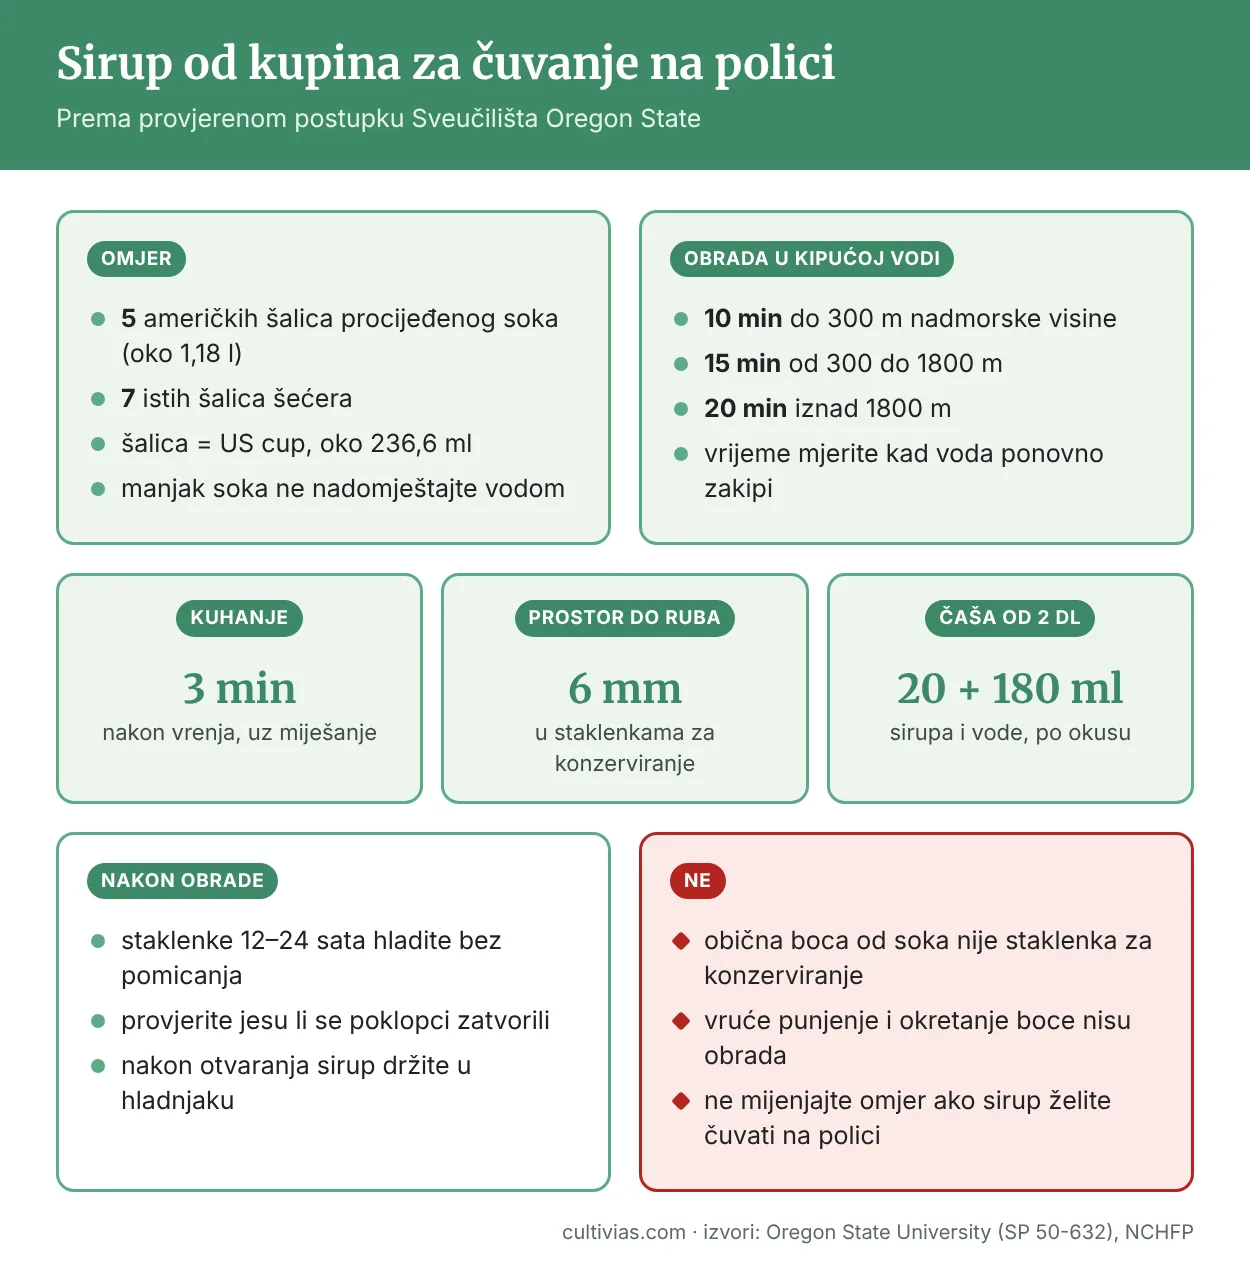
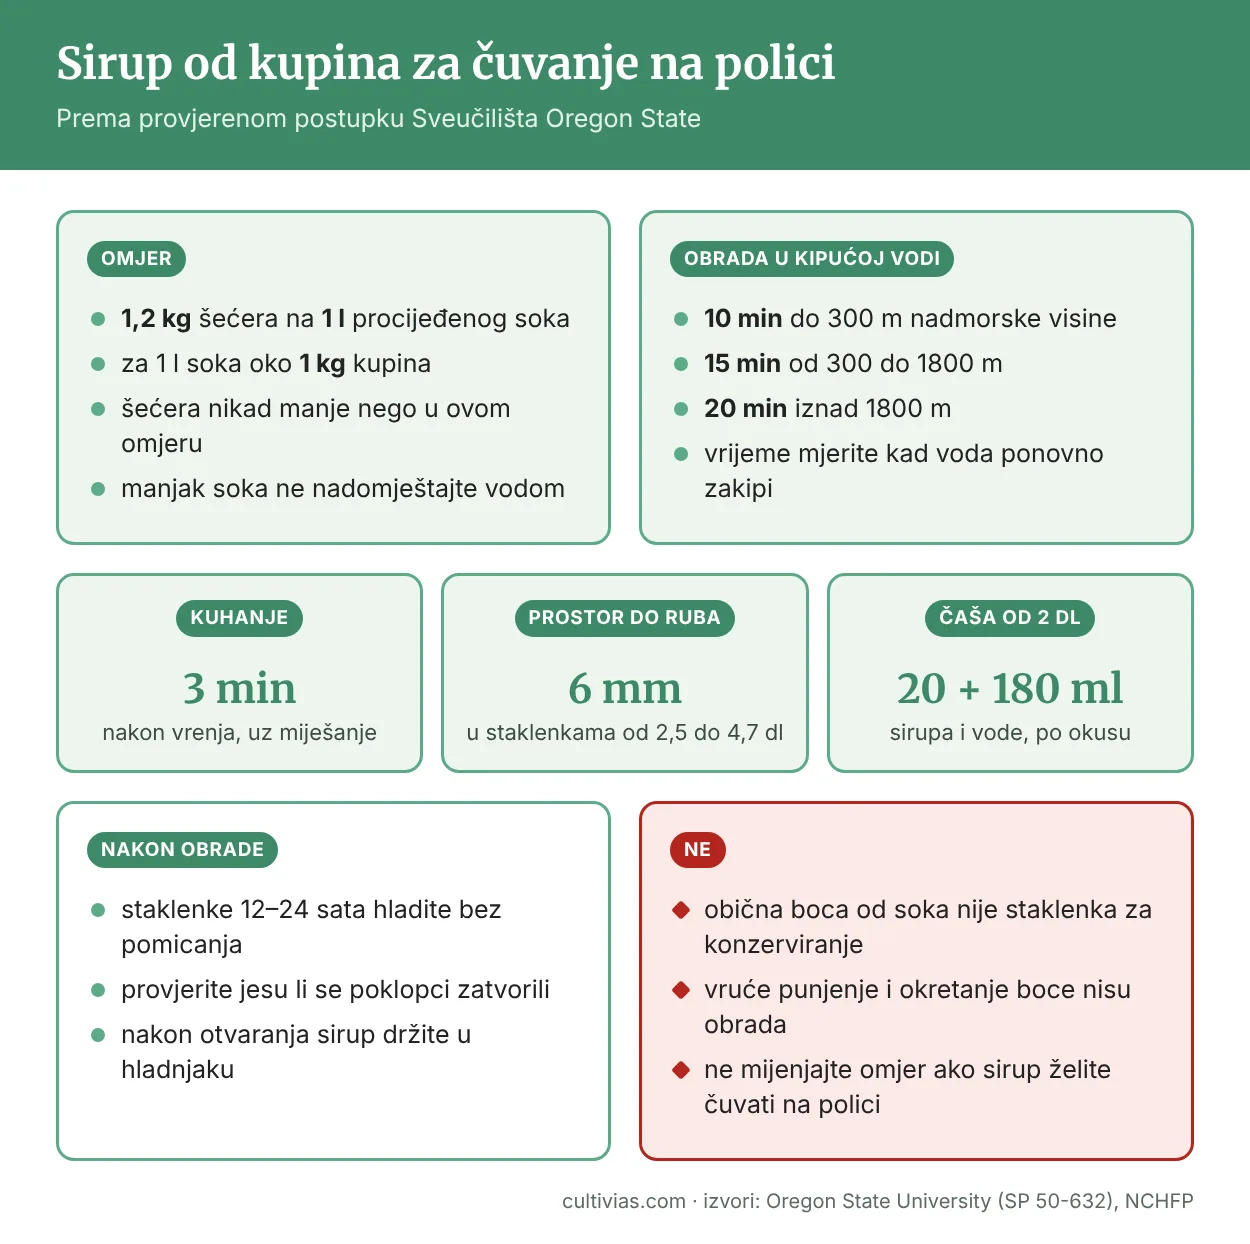
Sirup od kupina: mjere u litrama i kilogramima umjesto američkih šalica
- 1,2 kg šećera na 1 l soka (preračunato iz 5 US šalica soka i 7 šalica
  šećera, šećer zaokružen naviše), oko 1 kg kupina za 1 l soka
- staklenke od 2,5 do 4,7 dl, nadmorska visina zaokružena na 300 i 1800 m
- infografika usklađena

Claude-Session: https://claude.ai/code/session_01EBi2SCu3iP7XhSy3L9WRfJ

Changed region(s): [[0.0, 0.0305, 1.0, 0.9775], [0.0624, 0.9164, 0.468, 0.9469], [0.468, 0.9469, 0.5304, 0.9775]]

diff --git a/src/content/articles/sirup-od-kupina.md b/src/content/articles/sirup-od-kupina.md
@@ -30,23 +30,23 @@ Sirup je zaslađeni koncentrat. Čisti sok od kupina nije isti proizvod, a smiks
 
 ## Koliko soka i šećera pripremiti?
 
-Za jednu turu uzmite **5 američkih mjernih šalica procijeđenog soka i 7 istih šalica šećera**. Omjer i obrada preuzeti su iz [provjerenog postupka pripreme sirupa od bobičastog voća](https://extension.oregonstate.edu/food/preservation/making-berry-syrups-home-sp-50-632).
+**Na 1 litru procijeđenog soka dodajte 1,2 kg šećera.** Omjer je preračunat iz [provjerenog postupka pripreme sirupa od bobičastog voća](https://extension.oregonstate.edu/food/preservation/making-berry-syrups-home-sp-50-632) i zaokružen tako da šećera bude malo više, a ne manje. Šećera nemojte stavljati manje, jer sirup s premalo šećera nije siguran za čuvanje na polici.
 
-Ovdje „šalica” znači **US cup, približno 236,6 ml**, ne šalicu za kavu niti mjernu šalicu od 250 ml. Pet takvih šalica soka iznosi približno **1,18 l**. Šećer mjerite istom izvornom mjerom, poravnato, bez nabijanja. Mililitri šećera nisu isto što i grami; u ovom postupku zadržite izvornu mjeru.
+Za veću ili manju turu zadržite isti omjer: na pola litre soka 600 g šećera, a na 1,5 litre soka 1,8 kg šećera. Sok mjerite mjernom posudom, a šećer vagom.
 
-Za početak cijeđenja pripremite 6–7 takvih šalica kupina. Prinos soka varira, pa nakon cijeđenja izmjerite količinu. Ako ga nema dovoljno za 5 šalica, obradite još voća. U ovom postupku nemojte manjak nadomjestiti vodom.
+Za 1 litru soka pripremite oko 1 kg kupina. Koliko ćete soka dobiti, ovisi o plodovima, pa nakon cijeđenja izmjerite količinu. Ako ga nema dovoljno, obradite još voća, a manjak nemojte nadomjestiti vodom.
 
 ## Koja oprema i posude trebaju?
 
 Pripremite zdrave svježe ili smrznute kupine, lonac, gnječilicu, cjedilo, dvostruku gazu ili vrećicu za cijeđenje, mjericu i kuhaču. Za obradu trebaju dubok lonac s poklopcem i rešetkom na dnu te hvataljka za staklenke.
 
-**Koristite standardne staklenke za kućno konzerviranje s odgovarajućim dvodijelnim poklopcima.** Izvorni postupak predviđa veličine half-pint i pint, približno 237 i 473 ml. Približan volumen nije dopuštenje za bilo koju posudu slične veličine. Obična boca od soka nije zamjena za taj sustav.
+**Koristite standardne staklenke za kućno konzerviranje s odgovarajućim dvodijelnim poklopcima.** Vremena obrade u nastavku vrijede za staklenke od oko 2,5 dl do najviše 4,7 dl, pa veće staklenke ne koristite. Obična boca od soka nije zamjena za taj sustav.
 
 ## Kako pripremiti sok i skuhati sirup?
 
 1. **Operite i pregledajte kupine.** Uklonite peteljke i oštećene plodove. Plijesnivo voće nije sirovina za sirup.
 2. **Zgnječite i zagrijte voće.** Dovedite do vrenja pa lagano kuhajte **5–10 minuta, dok omekša**. Najprije ocijedite kroz cjedilo, zatim dobiveni sok kroz dvostruku gazu. Za bistriji sok vrećicu nemojte stiskati.
-3. **Izmjerite 5 šalica soka i dodajte 7 šalica šećera.** Zagrijte do vrenja, zatim lagano kuhajte **3 minute uz stalno miješanje**. Maknite s vatre i skinite pjenu.
+3. **Izmjerite sok i dodajte šećer, 1,2 kg na svaku litru soka.** Zagrijte do vrenja, zatim lagano kuhajte **3 minute uz stalno miješanje**. Maknite s vatre i skinite pjenu.
 4. **Napunite čiste vruće staklenke.** Ostavite oko **6 mm praznog prostora** do ruba. Obrišite rubove i stavite poklopce prema uputi proizvođača, zatim odmah nastavite obradu.
 
 Parni sokovnik može poslužiti za dobivanje soka prema uputi uređaja. Ako koristite električni sokovnik ili prešu, provjerite dopušta li model sitno bobičasto voće i dovoljno odvaja sjemenke i pulpu. Samo cijeđenje **nije pasterizacija** niti zamjena za obradu gotovog sirupa.
@@ -57,15 +57,15 @@ Parni sokovnik može poslužiti za dobivanje soka prema uputi uređaja. Ako kori
 
 Vrijeme mjerite tek kada voda ponovno zakipi. Za navedeni recept i predviđene staklenke obrada traje:
 
-- **10 minuta** do 304,8 m nadmorske visine
-- **15 minuta** iznad 304,8 do 1828,8 m
-- **20 minuta** iznad 1828,8 m
+- **10 minuta** do 300 m nadmorske visine
+- **15 minuta** od 300 do 1800 m
+- **20 minuta** iznad 1800 m
 
 Održavajte vrenje cijelo vrijeme. Ako prestane, vratite vodu do vrenja i puni interval počnite iznova. Na kraju ugasite vatru, otklopite lonac i pričekajte 5 minuta prije vađenja staklenki.
 
 Staklenke ostavite uspravno, bez pomicanja i dotezanja poklopaca, da se hlade **12–24 sata**. Potom provjerite zatvaranje prema [uputama za hlađenje i provjeru poklopaca](https://nchfp.uga.edu/how/can/general-information/cooling-jars-and-testing-jar-seals/).
 
-![Infografika: sirup od kupina prema postupku Sveučilišta Oregon State – 5 američkih šalica soka i 7 šalica šećera, kuhanje 3 minute, 6 mm prostora do ruba, obrada u kipućoj vodi 10, 15 ili 20 minuta ovisno o nadmorskoj visini, razrjeđivanje 20 ml sirupa i 180 ml vode; obična boca i vruće punjenje nisu obrada](/images/articles/infografika-kupina-sirup.webp)
+![Infografika: sirup od kupina prema postupku Sveučilišta Oregon State – 1,2 kg šećera na 1 litru soka, kuhanje 3 minute, 6 mm prostora do ruba, obrada u kipućoj vodi 10, 15 ili 20 minuta ovisno o nadmorskoj visini, razrjeđivanje 20 ml sirupa i 180 ml vode; obična boca i vruće punjenje nisu obrada](/images/articles/infografika-kupina-sirup.webp)
 
 ## Kako čuvati sirup u staklenci ili boci?
 
